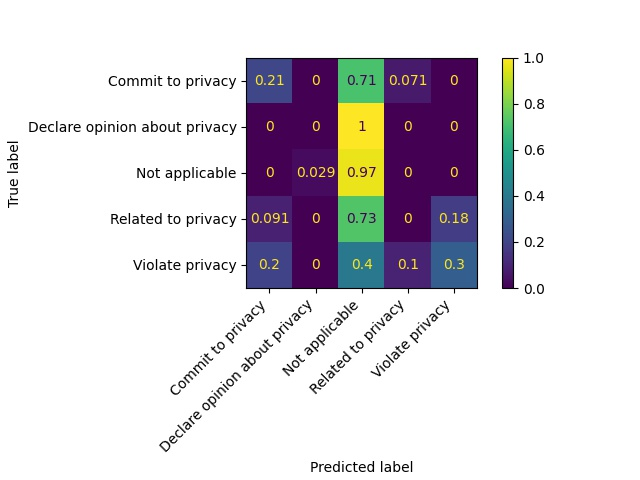
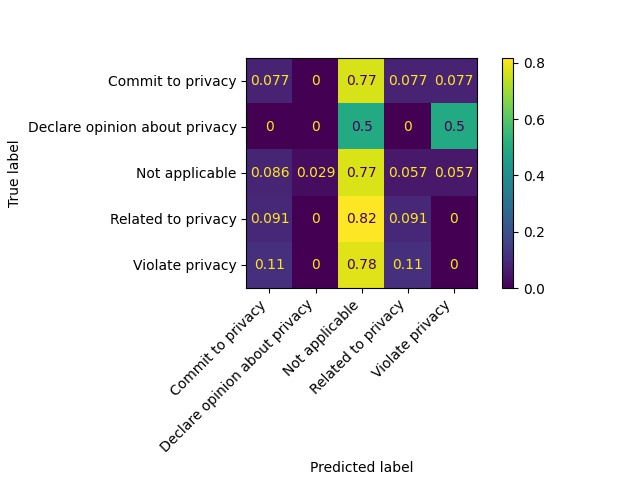
ridge classifier with mixed features, bad performance

diff --git a/AIclassifier.py b/AIclassifier.py
@@ -1,5 +1,8 @@
 from sklearn.ensemble import AdaBoostClassifier
 from sklearn.model_selection import GridSearchCV
+from imblearn.over_sampling import SMOTE
+from sklearn.linear_model import LinearRegression
+from sklearn.linear_model import RidgeClassifier
 
 #from sklearn import metrics
 from utils import clean_corpus, reconstruct_hyphenated_words, write_output_stats_file, write_predictions_file, create_confusion_matrix
@@ -222,7 +225,12 @@ test_labels_primary = create_labels_array(labels_test)
 # CLASSIFIER
 
 # Configurations
+# ADABOOST
 adaclassifier = AdaBoostClassifier(n_estimators=100, learning_rate=0.5) # n_est 25, 50, 75, 100,200, 300 lr 0.5, 1
+# LINEAR REGRESSION
+#lin_reg = LinearRegression() # it is not discrete!!
+# RIDGE REGRESSION CLASSIFIER
+ridge_classifier = RidgeClassifier()
 
 # FLAG - CHECK WHICH CONFIGURATIONS SHOULD BE HERE - checked
 
@@ -237,13 +245,25 @@ adaclassifier = AdaBoostClassifier(n_estimators=100, learning_rate=0.5) # n_est 
 #print(train_labels_primary.shape)
 #print(train_vectors_list.shape)
 
-# Training
-model = adaclassifier.fit(train_matrix_array, train_labels_primary) 
-#model_b = adaclassifier.fit(train_vectors_list, train_labels_primary) 
-#classifier.fit(train_matrix_array, train_labels_primary) 
-#print(classifier.best_params_)
+# SMOTE DOESNT HAVE ENOUGH EXAMPLES
 
-importances = model.feature_importances_
+# print(dev_matrix_array)
+#print(dev_labels_primary)
+#oversample = SMOTE()
+#X, y = oversample.fit_resample(dev_matrix_array, dev_labels_primary)
+#counter = Counter(y)
+#print(X)
+#print(y)
+#print(counter)
+
+
+# Training
+#model = adaclassifier.fit(train_matrix_array, train_labels_primary) 
+#model = lin_reg.fit(train_matrix_array, train_labels_primary)
+model = ridge_classifier.fit(train_matrix_array, train_labels_primary)
+
+
+#importances = model.feature_importances_
 #importances = model_b.feature_importances_
 
 #for i,(token,value) in enumerate(zip(words_to_numbers, importances)):
@@ -253,12 +273,12 @@ importances = model.feature_importances_
 #print(type(importances))
 #print(sorted(importances))
 
-features = {}
-for i,(token,value) in enumerate(zip(bigrams_to_numbers, importances)): # IMPORTANTO TO CHANGE TO ADEQUATE DICT
-    if (value != 0):
-	    #print('Feature:',token,'Score:',value)
-        features[token] = value
-features = sorted([(value, key) for (key, value) in features.items()], reverse=True)
+#features = {}
+#for i,(token,value) in enumerate(zip(bigrams_to_numbers, importances)): # IMPORTANTO TO CHANGE TO ADEQUATE DICT
+#    if (value != 0):
+#	    #print('Feature:',token,'Score:',value)
+#        features[token] = value
+#features = sorted([(value, key) for (key, value) in features.items()], reverse=True)
 #print(features)
 #for feature in features:
 #    print('Feature:',feature[1],'Score:',feature[0])
@@ -274,9 +294,9 @@ features = sorted([(value, key) for (key, value) in features.items()], reverse=T
 predictions = model.predict(test_matrix_array)
 
 # casually printing results
-#for sent, pred in zip(sents_train,predictions):
-#    print(sent, pred, "\n")
-#print("Predictions:\n", predictions)
+for sent, pred in zip(sents_train,predictions):
+    print(sent, pred, "\n")
+print("Predictions:\n", predictions)
 
 # Confusion matrix
 test_list = test_labels_primary.tolist()
@@ -285,23 +305,23 @@ pred_list = [pred for pred in predictions]
 labels=[1,3,5,4,2]
 path='output/AI Classifier/1Label_confusion_matrix_NormTrue.jpg'
 display_labels=['Commit to privacy', 'Declare opinion about privacy','Not applicable','Related to privacy','Violate privacy']
-#create_confusion_matrix(dev_list, pred_list, "true", path, labels, display_labels)
-create_confusion_matrix(test_list, pred_list, "true", path, labels, display_labels)
+create_confusion_matrix(dev_list, pred_list, "true", path, labels, display_labels)
+#create_confusion_matrix(test_list, pred_list, "true", path, labels, display_labels)
 path='output/AI Classifier/1Label_confusion_matrix_NonNorm.jpg'
-#create_confusion_matrix(dev_list, pred_list, None, path, labels, display_labels)
-create_confusion_matrix(test_list, pred_list, None, path, labels, display_labels)
+create_confusion_matrix(dev_list, pred_list, None, path, labels, display_labels)
+#create_confusion_matrix(test_list, pred_list, None, path, labels, display_labels)
 
 # FLAG - CHECK IF CONFUSION MATRIX IS CORRECT FOR EVERY LABEL
-
-path='output/AI Classifier/1labelPredictionsStatsMixed.txt'
+path='output/AI Classifier/1labelRidgePredictionsStatsDev.txt'
+#path='output/AI Classifier/1labelPredictionsStatsMixed.txt'
 #path='output/AI Classifier/1labelPredictionsStatsBigram.txt'
 #path='output/AI Classifier/1labelPredictionsStatsDev.txt'
 #path='output/AI Classifier/1labelPredictionsStatsTest.txt'
 os.makedirs(os.path.dirname(path), exist_ok=True)
 with open(path, 'w') as file:
     print("Performance measures\n", file=file)
-write_output_stats_file(path, "Mixed", test_labels_primary, predictions, labels)
-#write_output_stats_file(path, "Dev", dev_labels_primary, predictions, labels)
+#write_output_stats_file(path, "Mixed", test_labels_primary, predictions, labels)
+write_output_stats_file(path, "Dev", dev_labels_primary, predictions, labels)
 #write_output_stats_file(path, "Test", test_labels_primary, predictions, labels)
 
 # TO DO: WRITE PREDICTIONS JSON FILE -> LEARN HOW TO TRANSFORM ADABOOST OUTPUT IN DICT ( LIST OF ({"text":sentence['text'], "label":label}))
@@ -311,32 +331,6 @@ write_output_stats_file(path, "Mixed", test_labels_primary, predictions, labels)
 
 
 # MAKE SURE THAT RESULTS MAKE SENSE, OTHERWISE MAYBE THERE'S A LOST MISTAKE
-
-# EXPERIMENTS
-
-# INITIAL SETTINGS
-
-# STOPWORDS INCLUDED
-# PUNCTUATION IS INCLUDED IN VECTORS LIST AND SEEN AS UNKNOWN I THINK
-# INCLUDES LITTLE SQUARE AND OTHER WEIRD CHARACTERS
-# EXCLUDE WORDS WITH FREQUENCY < 2 (TURN THEM INTO UNKNOWN)
-# WEIGHTED VALUES TO EACH WORD ACCORDING TO THEIR FREQUENCY IN THE SENTENCE
-# N_ESTIMATORS: 50
-# LEARNING RATE: 1
-# ALL OTHER PARAMETERs: DEFAULT
-# MULTILABEL IS BEING TACKLED BY CONSIDERING ONLY PRIMARY LABEL
-
-# CHANGES
-
-# REMOVE STOP WORDS
-# REMOVE PUNCTUATION FROM VECTORS LIST
-# REMOVE LITTLE SQUARE AND OTHER ODD CHARACTERS
-# INCLUDE WORDS WITH FREQUENCY >= 2  
-# TRY WITH 1 INSTEAD OF WEIGHTED VALUE + TRY OTHER WAYS TO REPRESENT THE SENTENCE MAYBE
-# DIFFERENT CONFIGURATIONS FOR THE CLASSIFIER (N_ESTIMATORS, LEARNING RATE, ETC?)
-# MAKE AVERAGE OF RESULTS SINCE THEY DIFFER?
-# WHAT TO DO ABOUT DECLARE OPINION TO PRIVACY? EXPERIMENT WITHOUT IT?
-# DIFFERENT WAYS TO TACKLE MULTI-LABEL: DUPLICATE RESULTS, ALIGN RIGHT LABEL FIRST
 
 # CAREFUL
 # ADABOOST IS HIGHLY AFFECTED by OUTLIERS - declare opinion about privacy is a very rare category...
@@ -350,8 +344,6 @@ write_output_stats_file(path, "Mixed", test_labels_primary, predictions, labels)
 # APPROACH 1: CHOOSE PRIMARY LABEL ----- ADOPTED
 # APPROACH 2: DUPLICATE RESULTS
 # APPROACH 3? : ALIGN RIGHT LABEL FIRST
-
-# HELP - Predictions are changing... - confusion matrix, and measures
 
 # LESS OR EQUAL THAN 2 TIMES
 # REPLACE EVERY WORD THAT IS LESS FREQUENT THAN 2 WITH UNK

diff --git a/partition.py b/partition.py
@@ -7,6 +7,7 @@ import json
 from collections import Counter
 import matplotlib.pyplot as plt
 import numpy
+from imblearn.over_sampling import SMOTE
 
 # Functions
 
@@ -168,3 +169,21 @@ write_distribution(path, counter, "Test")
 
 # FLAG - CHECK IF DISTRIBUTION IS BEING DONE AND MEASURED CORRECTLY
 # FLAG - in theory checked, but RECHECK rechecked
+
+# SMOTE TECHNIQUE
+
+total_sents_ref_list = [sent['text'] for sent in total_dict]
+train_sents_ref_list = [sent['text'] for sent in train_dict]
+dev_sents_ref_list = [sent['text'] for sent in dev_dict]
+test_sents_ref_list = [sent['text'] for sent in test_dict]
+
+
+#print(dev_sents_ref_list)
+#print(dev_ref_primary_label)
+#oversample = SMOTE()
+#X, y = oversample.fit_resample(dev_sents_ref_list, dev_ref_primary_label)
+# summarize the new class distribution
+#counter = Counter(y)
+#print(X)
+#print(y)
+#print(counter)
